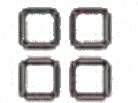
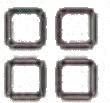
Match bottom navigation to reference geometry

diff --git a/index.html b/index.html
@@ -680,7 +680,7 @@
       align-items: start;
       justify-items: stretch;
       height: 124px;
-      padding: 13px 20px 0;
+      padding: 12px 0 0;
       background: linear-gradient(180deg, rgba(249, 253, 255, .98), #fdfcfc 82%);
       color: #45464e;
       box-shadow: 0 -2px 10px rgba(0,0,0,.06);
@@ -834,31 +834,31 @@
     .nav-item.fixed-nav span {
       display: block;
       color: inherit;
-      font-size: 14px;
+      font-size: 17px;
       font-weight: 500;
       line-height: 1;
     }
     .nav-item .fixed-nav-icon {
       width: 42px;
-      height: 38px;
+      height: 40px;
       max-width: none;
       max-height: none;
       object-fit: contain;
     }
-    .nav-item [data-icon-slot="navHomeIcon"] { width: 42px; height: 40px; }
-    .nav-item [data-icon-slot="navAccountsIcon"] { width: 42px; height: 40px; }
-    .nav-item [data-icon-slot="navWealthIcon"] { width: 42px; height: 40px; }
-    .nav-item [data-icon-slot="navRewardsIcon"] { width: 42px; height: 40px; }
-    .nav-item [data-icon-slot="navServicesIcon"] { width: 42px; height: 40px; }
+    .nav-item [data-icon-slot="navHomeIcon"] { width: 40px; height: 40px; }
+    .nav-item [data-icon-slot="navAccountsIcon"] { width: 40px; height: 40px; }
+    .nav-item [data-icon-slot="navWealthIcon"] { width: 40px; height: 40px; }
+    .nav-item [data-icon-slot="navRewardsIcon"] { width: 40px; height: 40px; }
+    .nav-item [data-icon-slot="navServicesIcon"] { width: 40px; height: 40px; }
     .nav-item .fixed-nav-icon,
     .nav-item [data-icon-slot="navHomeIcon"],
     .nav-item [data-icon-slot="navAccountsIcon"],
     .nav-item [data-icon-slot="navWealthIcon"],
     .nav-item [data-icon-slot="navRewardsIcon"],
     .nav-item [data-icon-slot="navServicesIcon"] {
-      width: 42px;
+      width: 40px;
       height: 40px;
-      max-width: 42px;
+      max-width: 40px;
       object-fit: contain;
     }
     .editor-panel {

diff --git a/iphone17-viewer.html b/iphone17-viewer.html
@@ -136,7 +136,7 @@
   <nav class="viewer-bar" aria-label="iPhone 17 viewer controls">
     <button class="active" type="button" data-screen="home">Home</button>
     <button type="button" data-screen="intro">Intro</button>
-    <a href="./index.html?screen=1&app=1&viewer=1&v=64" target="_blank" rel="noreferrer">Open</a>
+    <a href="./index.html?screen=1&app=1&viewer=1&v=65" target="_blank" rel="noreferrer">Open</a>
   </nav>
 
   <main class="device-wrap" aria-label="iPhone 17 viewport">
@@ -144,7 +144,7 @@
       <iframe
         id="phoneFrame"
         title="iPhone 17 app preview"
-        src="./index.html?screen=1&app=1&viewer=1&v=64"
+        src="./index.html?screen=1&app=1&viewer=1&v=65"
         width="1206"
         height="2622"
       ></iframe>
@@ -162,8 +162,8 @@
       document.documentElement.style.setProperty("--viewer-scale", Math.max(.1, scale).toFixed(5));
     };
     const urls = {
-      home: "./index.html?screen=1&app=1&viewer=1&v=64",
-      intro: "./index.html?app=1&viewer=1&v=64"
+      home: "./index.html?screen=1&app=1&viewer=1&v=65",
+      intro: "./index.html?app=1&viewer=1&v=65"
     };
 
     buttons.forEach((button) => {
